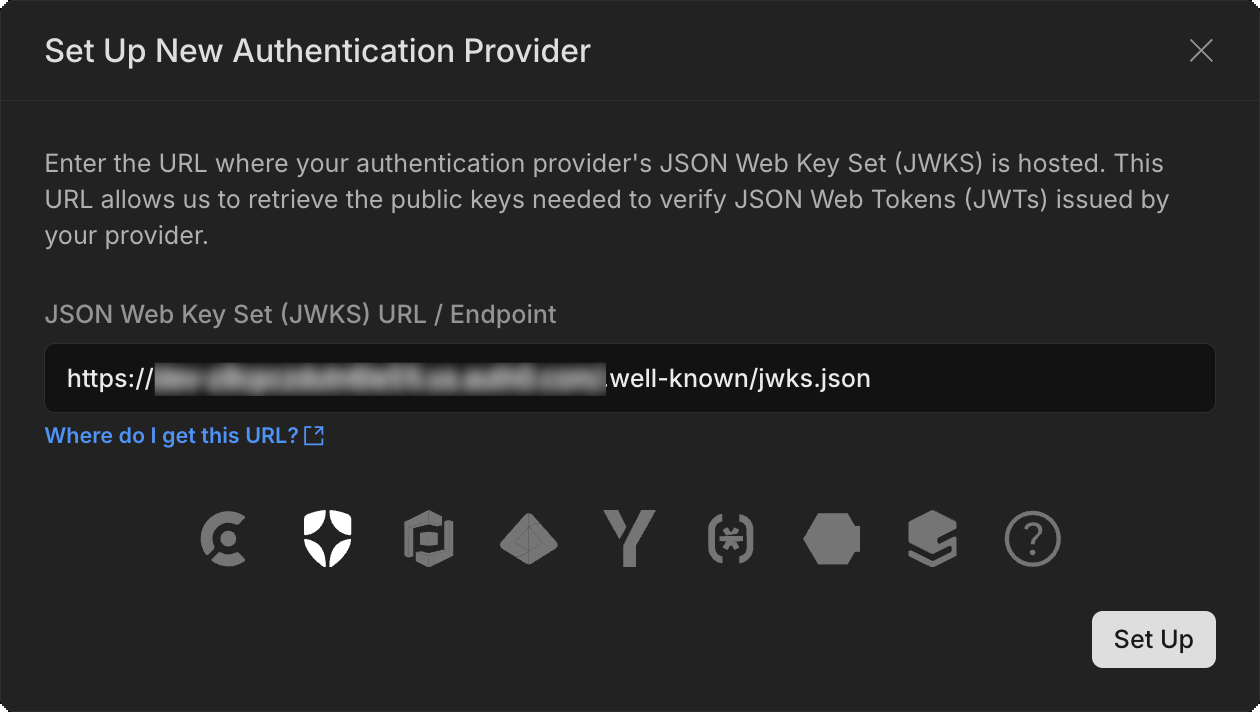
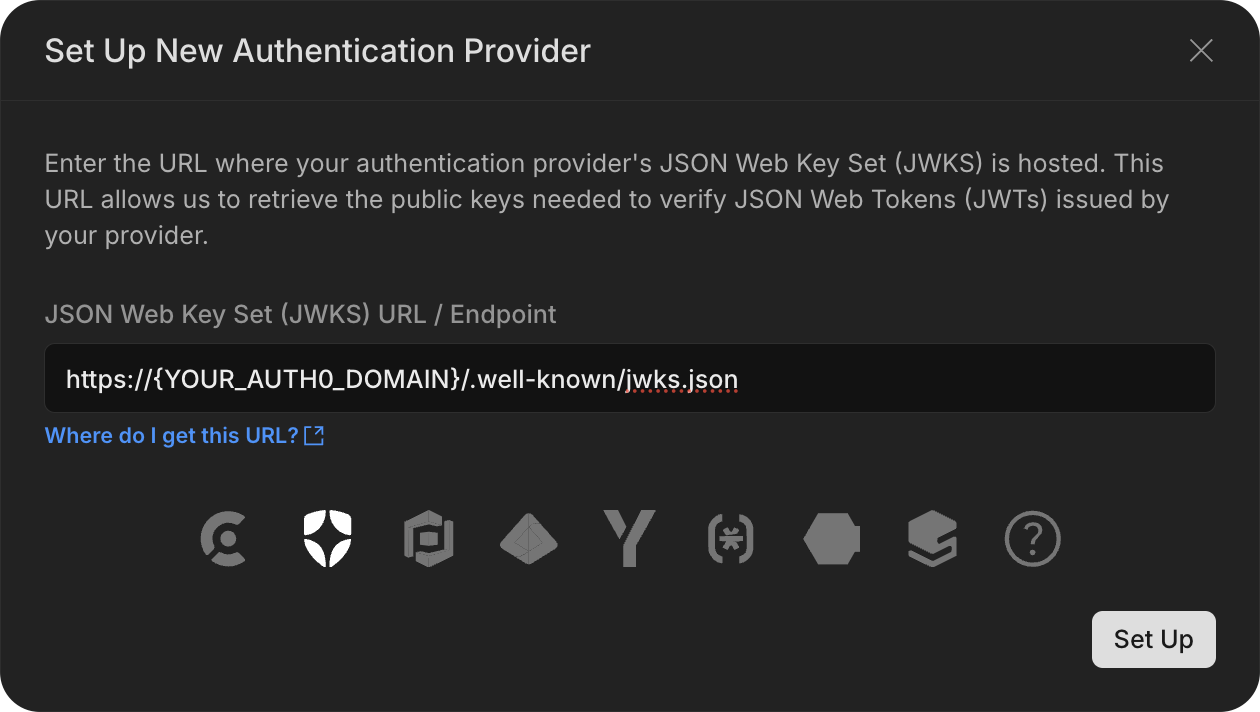
docs: edits

diff --git a/content/docs/guides/neon-authorize-auth0.md b/content/docs/guides/neon-authorize-auth0.md
@@ -33,17 +33,19 @@ In this first set of steps, we'll integrate Auth0 as an authorization provider i
 
 ### 1. Get your Auth0 JWKS URL
 
-When integrating Auth0 with Neon, you'll need to provide the JWKS (JSON Web Key Set) URL. This URL provides the public keys needed to verify the signatures of JWTs issued by your Auth0 application. It uses this format.
+To integrate Auth0 with Neon, you'll need to provide your Auth0 JWKS (JSON Web Key Set) URL. This URL provides the public keys needed to verify the signatures of JWTs issued by your Auth0 application. The URL follows this format.
 
 ```bash shouldWrap
 https://{YOUR_AUTH0_DOMAIN}/.well-known/jwks.json
 ```
 
-You can't find the URL directly from the Auth0 dashboard, but you can find your domain here: **Applications → `{your app}` → Settings**.
+First, open the **Settings** for your application in the Auth0 dashboard:
 
-For example, here's the Auth0 default domain (automatically assigned to your Auth0 tenant when you create an account).
+![find your Auth0 settings under applications - settings](/docs/guides/auth0_settings.png)
 
-![find your Auth0 domain for JWKS URL](/docs/guides/authO_neon_jwt.png)
+Copy your **Domain** and use that to form your JWKS URL. For example, here's the Auth0 default domain (automatically assigned to your Auth0 tenant when you create an account).
+
+![find your Auth0 domain for JWKS URL](/docs/guides/auth0_neon_jwt.png)
 
 ### 2. Add Auth0 as an authorization provider in the Neon Console
 
